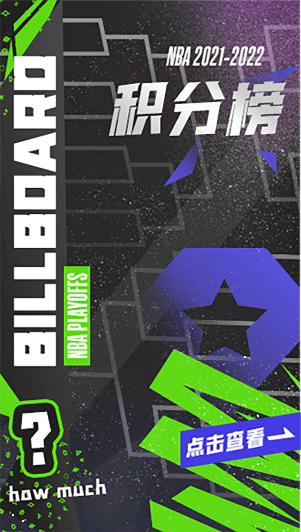
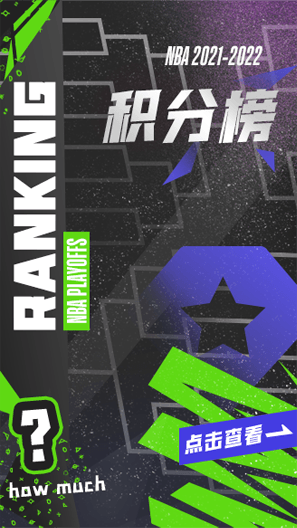
feat:素材替换 小程序登录

diff --git a/src/pages/guessing/index.scss b/src/pages/guessing/index.scss
@@ -178,16 +178,25 @@
       }
     }
     .btn { 
-      display: flex;
-      align-items: center;
-      justify-content: center;
-      width: 160px;
-      height: 80px;
-      font-family: $font-ximai;
-      font-size: 34px;
-      color: #fff;
-      background: url('@assets/images/btn_bg.png');
-      background-size: 100% 100%;
+      width: 150px;
+      height: 64px;
+      .submit_btn {
+        display: block;
+        width: 150px;
+        height: 64px;
[1 lines of base64/hex data omitted]
+        background-size: cover;
+      }
+      .edit {
+        display: block;
+        width: 150px;
+        height: 64px;
[1 lines of base64/hex data omitted]
+         background-size: cover;
+      }
+    }
+    .edit {
+     
     }
   }
 }

diff --git a/src/pages/home/index.scss b/src/pages/home/index.scss
@@ -180,12 +180,33 @@
     &-prize {
       width: 608px;
       height: 980px;
+      background: url('/images/prize.png') no-repeat;
+      background-size: 100%;
       position: relative;
-      img {
-        width: 100%;
+      &-center{
+        width: 600px;
+        height: 880px;
+        margin-top: 80px;
+        overflow: hidden;
+        overflow-x: hidden;
+        overflow-y: scroll;
+        img{
+          display: block;
+          margin-left:  56px;
+          padding-top:20px ;
+          width: 84%;
+          height: 84%;
+        }
+        img:last-child{
+          padding-bottom: 140px;
+        }
       }
+      
       .prize-close {
         margin-top: 40px;
+        position: relative;
+        top: 0;
+        left: 0;
       }
       &-share{
         position: absolute;
@@ -194,10 +215,7 @@
          width: 40px !important;
          height: 40px !important;
       }
-      img{
-        width: 100%;
-        height: 100%;
-      }
+      
     }
     &-guide {
       width: 650px;
@@ -205,6 +223,7 @@
       background-image: url('/images/rules.png');
       background-repeat: no-repeat;
       background-size: 99%;
+      position: relative;
       .guide-title {
         font-size: 46px;
         font-family: $font-ximai;
@@ -213,14 +232,40 @@
         color: #ffffff;
         margin: 16px 20px 18px 0;
       }
-      .guide-center {
+      &-more{
+        position: absolute;
+        bottom: 130px;
+        right: 40px;
+        span{
+          display: block;
+          width: 20px;
+          font-size: 20px;
+          font-family: $font-zhengdao;
+          color: #fff;
+        }
+        &::after{
+          content: '';
+          position: absolute;
+          bottom: -60px;
+          right: -4px;
+          width: 26px;
+          height: 26px;
[1 lines of base64/hex data omitted]
+          background-size:cover;
+          -webkit-animation: bouncedown 1.6s linear infinite;
+         animation: bouncedown 1.6s linear infinite;
+        }
+      }
+      .guide-center {   
         width: 600px;
         height: 1040px;
         margin: 0 auto;
         // overflow: hidden;
-        overflow-x: scroll;
+        overflow-x: hidden;
+        overflow-y: scroll;
+        
         img {
-          width: 84%;
+          width: 86%;
           height: 86%;
           margin: 80px 0 0 48px;
         }
@@ -333,5 +378,21 @@
     opacity: 1;
     -webkit-transform: scale(1);
     transform: scale(1);
+  }
+}
+
+
+@keyframes bouncedown {
+  25% {
+       -webkit-transform: translateY(4px);
+       transform: translateY(-4px);
+  }
+  50%, 100% {
+       -webkit-transform: translateY(4px);
+       transform: translateY(0);
+  }
+  75% {
+       -webkit-transform: translateY(4px);
+       transform: translateY(4px);
   }
 }

diff --git a/src/pages/home/index.vue b/src/pages/home/index.vue
@@ -13,10 +13,10 @@
           <img src="/images/home_2.png" alt="" />
         </div>
         <div class="mainbody-item" :class="{ delayanimat: isLoading }" @click="status.prizeShow = true">
-          <img src="/images/home_4.png" alt="" />
+          <img src="/images/home_3.png" alt="" />
         </div>
         <div class="mainbody-item" :class="{ delayanimat: isLoading }" @click="status.guideShow = true">
-          <img src="/images/home_3.png" alt="" />
+          <img src="/images/home_4.png" alt="" />
         </div>
       </div>
     </main>
@@ -57,11 +57,14 @@
       </div>
     </van-overlay>
     <!-- 奖品 -->
-    <van-overlay :show="status.prizeShow" @click="status.show = false">
+    <van-overlay :show="status.prizeShow" :lock-scroll="false" @click="status.show = false">
       <div class="wrapper" @click.stop>
         <div class="wrapper-prize">
           <img class="wrapper-prize-share" src="@assets/images/share.png" alt="" @click="status.posterShow = true" />
-          <img src="/images/prize.png" alt="" />
+          <div class="wrapper-prize-center">
+            <img src="/images/prize2.png" alt="" />
+            <img src="/images/prize1.png" alt="" />
+          </div>
           <div class="close prize-close" @click="status.prizeShow = false"></div>
         </div>
       </div>
@@ -71,6 +74,9 @@
       <div class="wrapper" @click.stop>
         <div class="wrapper-guide">
           <h3 class="guide-title">竞猜指南</h3>
+          <div class="wrapper-guide-more">
+            <span>向下滑动继续阅读</span>
+          </div>
           <div class="guide-center">
             <img src="/images/guide_1.png" alt="" />
             <img src="/images/guide_2.png" alt="" />
@@ -97,15 +103,16 @@ import Login from './components/Login/index.vue'
 import Guide from '@components/Guide/index.vue'
 import Loading from '@components/Loading/index.vue'
 import useMusicControl from './music'
-import { useRouter } from 'vue-router'
-import { localStorageGet } from '@utils/auth'
-import { getUserInfo } from '@apis'
+import { useRouter, useRoute } from 'vue-router'
+import { localStorageGet, localStorageSet } from '@utils/auth'
+import { getUserInfo, getWeChatLogin } from '@apis'
+
 import Poster from '@components/Poster/index.vue'
 // import { getSignData } from '@utils/crypto'
 
 const { isPlayMusic, onSwitch } = useMusicControl()
 const router = useRouter()
-
+const route = useRoute()
 const status = reactive({
   show: false,
   prizeShow: false,
@@ -139,6 +146,12 @@ onMounted(async () => {
   // 是否第一次进入
   if (!sessionStorage.getItem('loading')) {
     isLoading.value = true
+  }
+
+  // 小程序登录
+  if (route.query.code) {
+    const { data } = await getWeChatLogin({ code: route.query.code as string })
+    localStorageSet('token', data.Data.Token)
   }
 
   // 获取用户信息

diff --git a/src/pages/guessing/index.vue b/src/pages/guessing/index.vue
@@ -46,8 +46,8 @@
       </div>
 
       <div class="btn">
-        <span @click="edit" v-if="resultInfo && resultInfo.Name">修改</span>
-        <span @click="submit" v-else>提交</span>
+        <span class="submit_btn" @click="edit" v-if="resultInfo && resultInfo.Name"></span>
+        <span class="edit" @click="submit" v-else></span>
       </div>
     </div>
 

diff --git a/src/apis/index.ts b/src/apis/index.ts
@@ -72,3 +72,11 @@ export const getRankingList = async (): Promise<HttpResponse> => {
     method: 'get'
   })
 }
+
+// 微信登录
+export const getWeChatLogin = async (params: { code: string }): Promise<HttpResponse> => {
+  return request('api/miniprogram', {
+    method: 'post',
+    data: params
+  })
+}

diff --git a/src/utils/index.ts b/src/utils/index.ts
@@ -13,6 +13,7 @@ export const isWeiXin = (): boolean => {
   }
   return false
 }
+
 /**
  *  是否在webview打开
  * @returns Boolean
